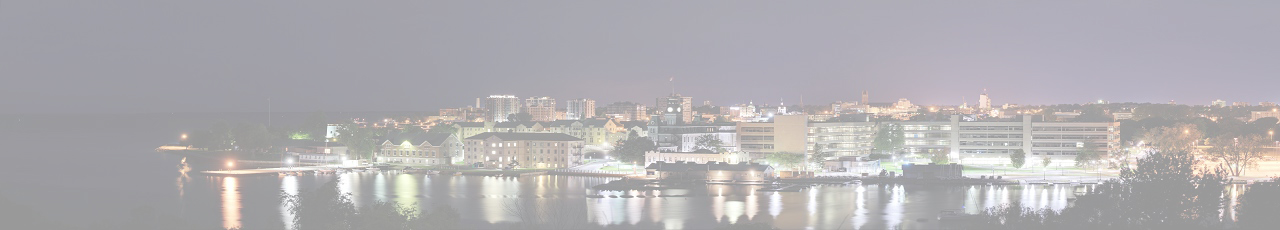
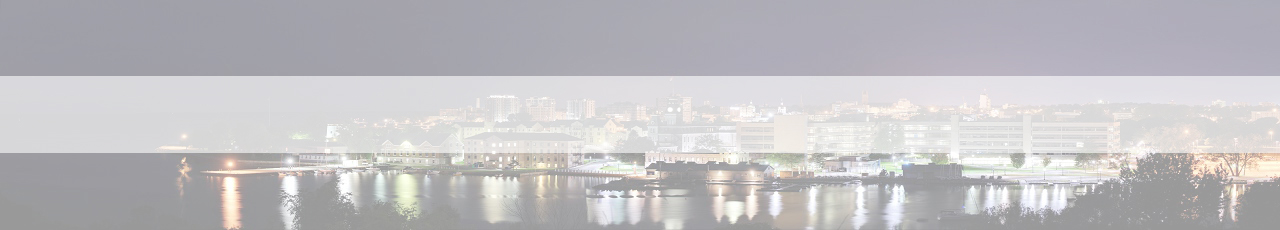
Added image_url property, changed city header img, color scheme, and city layout

diff --git a/app/assets/stylesheets/custom.css.scss b/app/assets/stylesheets/custom.css.scss
@@ -1,7 +1,7 @@
 @import url("bootstrap_v3.css");
 
 .row {
-	margin-left: 15px;
+	margin-left: 5px;
 }
 
 .col-lg-4 {
@@ -12,14 +12,25 @@
 	border: 2px solid #B4DDFF;
 	padding: 10px;
 	width: 32%;
-	height: 150px;
 	margin-right: 15px;
 	margin-bottom: 15px;
 	background-color: #FFF;
 }
 
-.navbar {
+.col-lg-2 {
+	-webkit-border-radius: 6px;
+  -moz-border-radius: 6px;
+  border-top-left-radius: 6px;
+  border-bottom-left-radius: 6px;
+	border: 2px solid #1989E5;
+	margin-right: 5px;
+	margin-bottom: 5px;
 	background-color: #1C98FF;
+	width: 16.2%;
+}
+
+.navbar {
+	background-color: #105894;
 	border: 1px solid #fff;
 	margin-bottom: 5px;
 }
@@ -37,8 +48,8 @@
 	font-family: Aguafina;
 }
 
-a {
-	color: #1C99FF
+.col-lg-2 a {
+	color: #FFF;
 }
 
 .jumbotron {
@@ -46,7 +57,8 @@ a {
 	background-size: 110%;
 	background-position: 0px -40px;
 	margin-bottom: 15px;
-	border-bottom: 1px solid #B4DDFF;
-	border-top: 1px solid #B4DDFF;
+	border-bottom: 1px solid #000;
+	border-top: 1px solid #000;
 	border-radius: 0px;
+	height:200px;
 }

diff --git a/app/assets/stylesheets/bootstrap_v3.css b/app/assets/stylesheets/bootstrap_v3.css
@@ -4349,7 +4349,7 @@ a.list-group-item.active > .badge,
 }
 
 .jumbotron {
-  padding: 30px;
+  padding: 40px;
   margin-bottom: 30px;
   font-size: 21px;
   font-weight: 200;

diff --git a/db/schema.rb b/db/schema.rb
@@ -11,7 +11,7 @@
 #
 # It's strongly recommended that you check this file into your version control system.
 
-ActiveRecord::Schema.define(version: 20130731173132) do
+ActiveRecord::Schema.define(version: 20130801034802) do
 
   create_table "categories", force: true do |t|
     t.string   "name"
@@ -23,6 +23,7 @@ ActiveRecord::Schema.define(version: 20130731173132) do
     t.string   "name"
     t.datetime "created_at"
     t.datetime "updated_at"
+    t.string   "image_url"
   end
 
   create_table "posts", force: true do |t|

diff --git a/db/seeds.rb b/db/seeds.rb
@@ -7,7 +7,7 @@
 #   Mayor.create(name: 'Emanuel', city: cities.first)
 City.delete_all
 City.allowed_types.each do |x|
-  City.create!(name: "#{x}")
+  City.create!(name: "#{x}", image_url: "#{x}.jpg")
 end
 
 Category.delete_all

diff --git a/app/controllers/categories_controller.rb b/app/controllers/categories_controller.rb
@@ -1,5 +1,5 @@
 class CategoriesController < ApplicationController
-
+	before_action :check_current_city
 	def index
 		@categories = Category.all
 	end

diff --git a/db/migrate/20130801034802_add_images_to_cities.rb b/db/migrate/20130801034802_add_images_to_cities.rb
@@ -1,0 +1,5 @@
+class AddImagesToCities < ActiveRecord::Migration
+  def change
+    add_column :cities, :image_url, :string
+  end
+end
